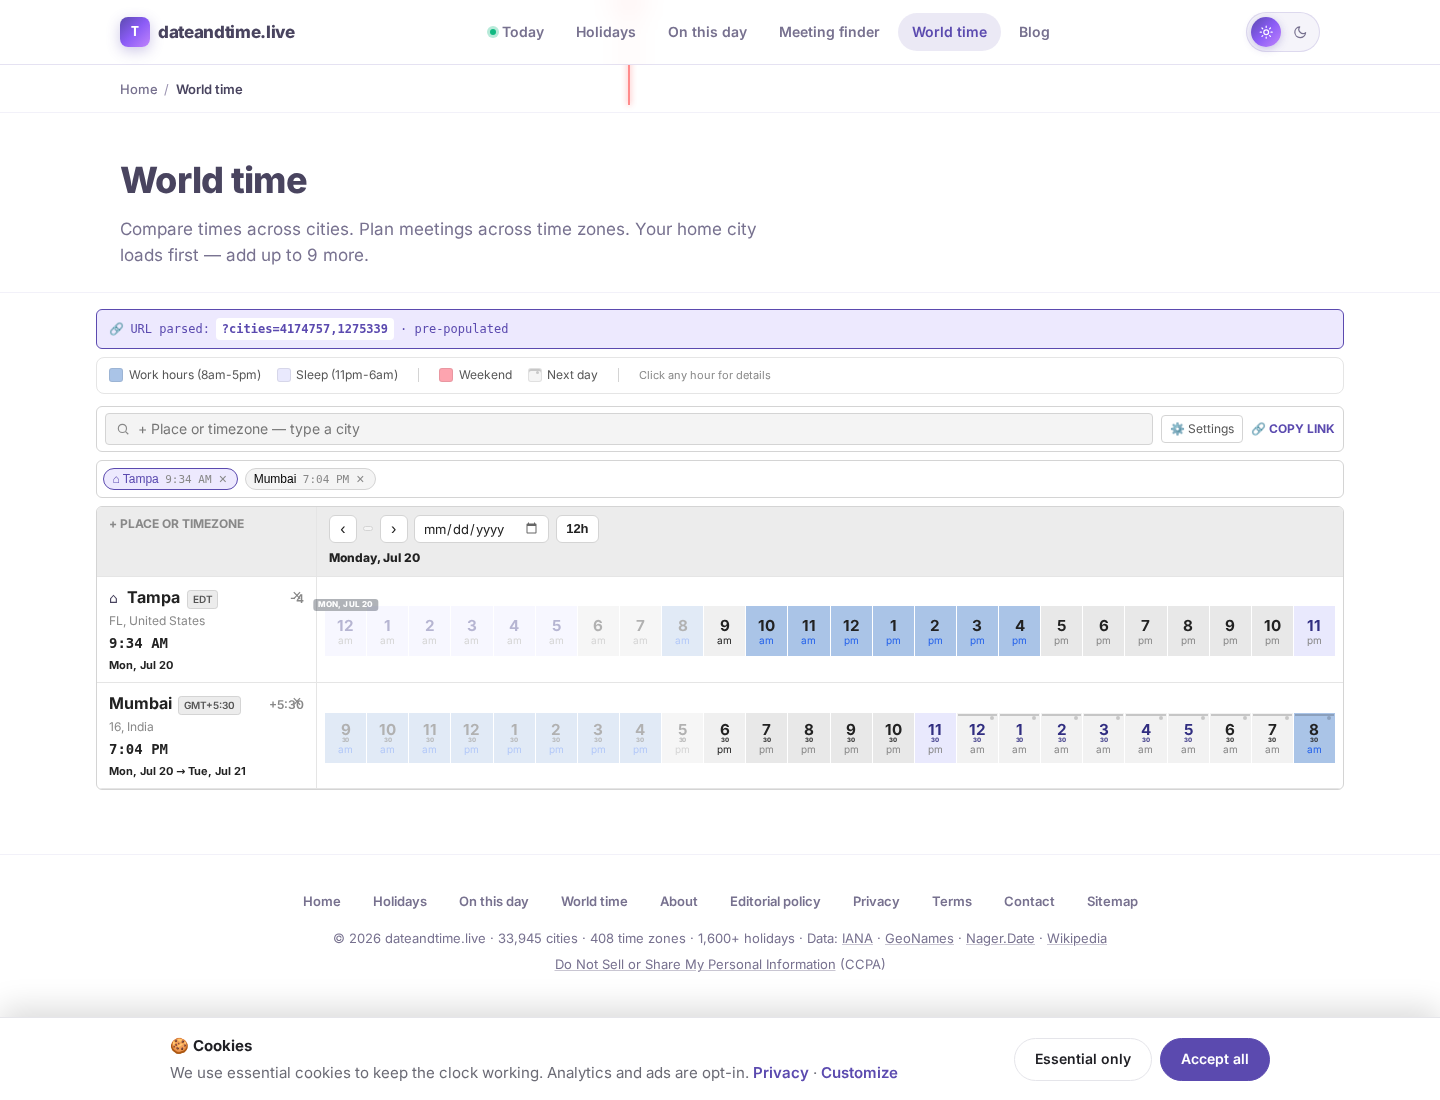
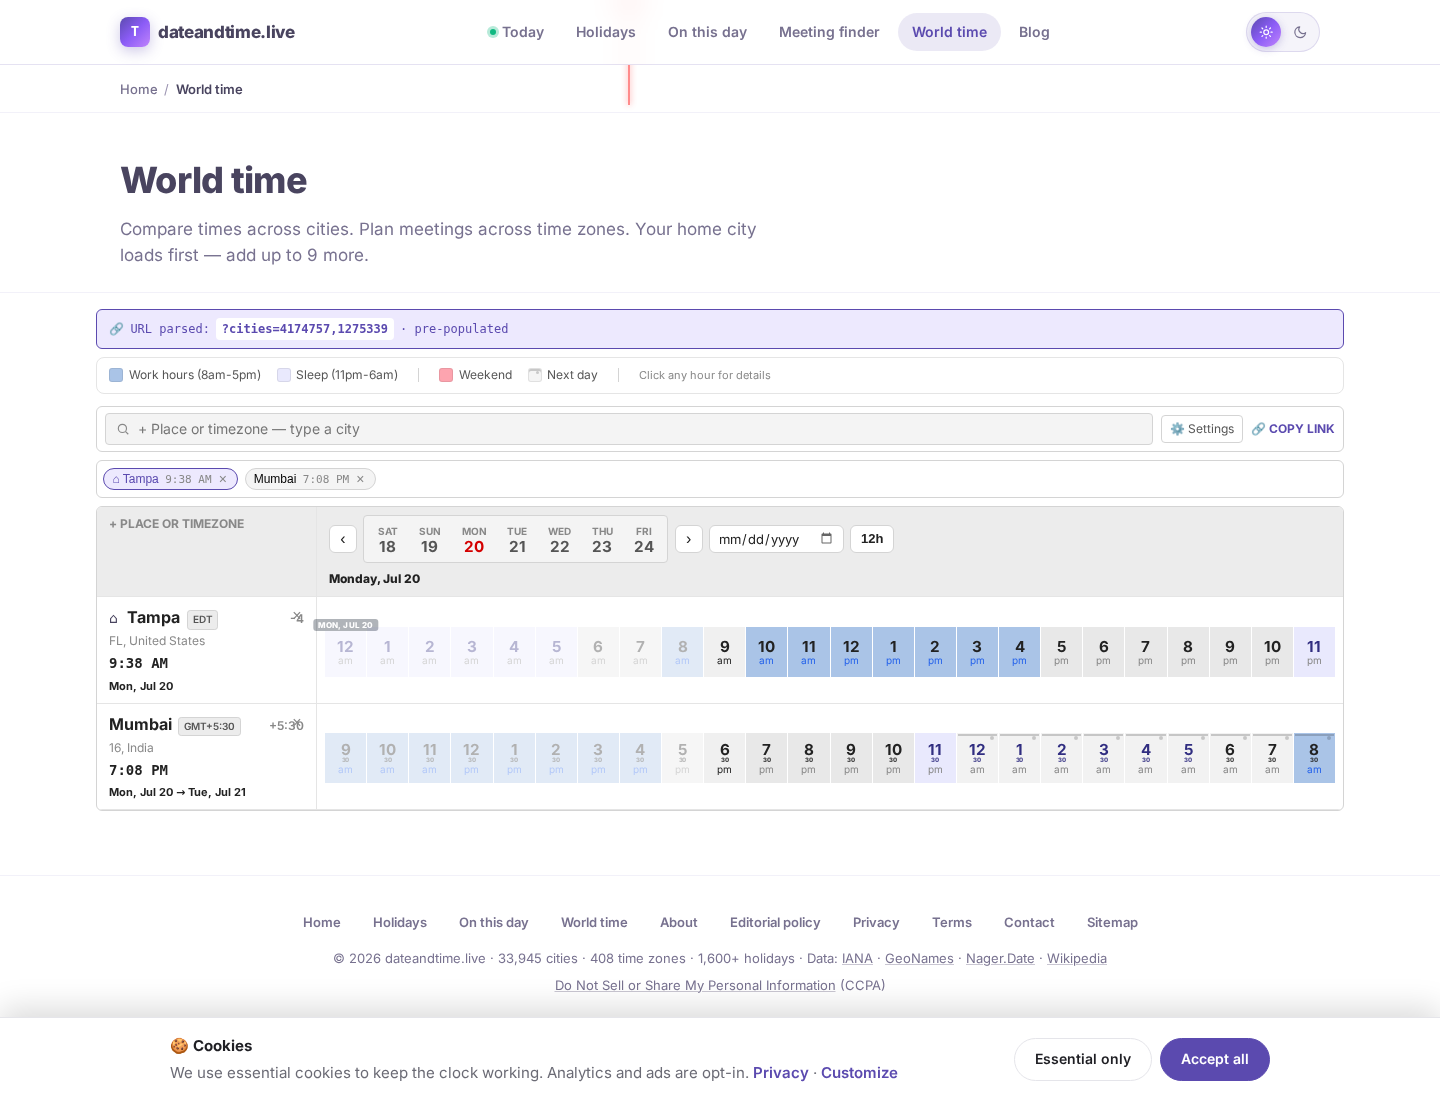
fix(wt-ux): use event delegation for date picker + 12/24 toggle
render() recreates the date picker and 12/24 toggle buttons, so
the event listeners attached in setupDatePicker/setupTimeToggle
were lost after the first render.

Fix: use event delegation on document for both. The change/click
event bubbles up to document, and we check e.target.id.

Also added initDatePicker() and initTimeToggle() that are called
after every render() to set min/max/value and button text.

diff --git a/src/world-time.js b/src/world-time.js
@@ -286,6 +286,8 @@
     renderMain();
     renderUrlState();
     updateTimeEverySecond();
+    initDatePicker();
+    initTimeToggle();
   }
 
   function renderChips() {
@@ -918,24 +920,46 @@
   }
   // 12/24 hour toggle
   function setupTimeToggle() {
-    const btn = document.getElementById("wt-time-toggle");
-    if (!btn) return;
-    function update() {
-      btn.textContent = use24h ? "24h" : "12h";
-      btn.classList.toggle("is-24h", use24h);
-    }
-    update();
-    btn.addEventListener("click", () => {
+    // Use event delegation because render() recreates the button
+    document.addEventListener("click", (e) => {
+      if (!e.target || e.target.id !== "wt-time-toggle") return;
       use24h = !use24h;
       try { localStorage.setItem("tdlWtUse24h", use24h ? "1" : "0"); } catch (e) {}
-      update();
+      const btn = document.getElementById("wt-time-toggle");
+      if (btn) {
+        btn.textContent = use24h ? "24h" : "12h";
+        btn.classList.toggle("is-24h", use24h);
+      }
       render();
     });
+  }
+
+  // Update the toggle button text (called on init and after render)
+  function initTimeToggle() {
+    const btn = document.getElementById("wt-time-toggle");
+    if (!btn) return;
+    btn.textContent = use24h ? "24h" : "12h";
+    btn.classList.toggle("is-24h", use24h);
   }
 
   // Date picker: native <input type="date">
   // Min = yesterday, Max = +1 year. When changed, re-center date tabs and set focusedDate.
   function setupDatePicker() {
+    // Use event delegation because render() recreates the picker element
+    document.addEventListener("change", (e) => {
+      if (!e.target || e.target.id !== "wt-date-picker") return;
+      const val = e.target.value;
+      if (!val) return;
+      const [y, m, d] = val.split("-").map(Number);
+      const picked = new Date(y, m - 1, d, 12, 0, 0, 0);
+      focusedDate = picked;
+      renderDateTabs();
+      render();
+    });
+  }
+
+  // Set the picker's min/max/value (called on init and after render)
+  function initDatePicker() {
     const picker = document.getElementById("wt-date-picker");
     if (!picker) return;
     const today = new Date();
@@ -945,17 +969,7 @@
     max.setFullYear(max.getFullYear() + 1);
     picker.min = yest.toISOString().slice(0, 10);
     picker.max = max.toISOString().slice(0, 10);
-    // Initialize to focusedDate (today by default)
     picker.value = isoDate(focusedDate);
-    picker.addEventListener("change", (e) => {
-      const val = e.target.value;
-      if (!val) return;
-      const [y, m, d] = val.split("-").map(Number);
-      const picked = new Date(y, m - 1, d, 12, 0, 0, 0); // noon
-      focusedDate = picked;
-      renderDateTabs();
-      render();
-    });
   }
 
   // Helper: format a Date as YYYY-MM-DD (for date picker value)